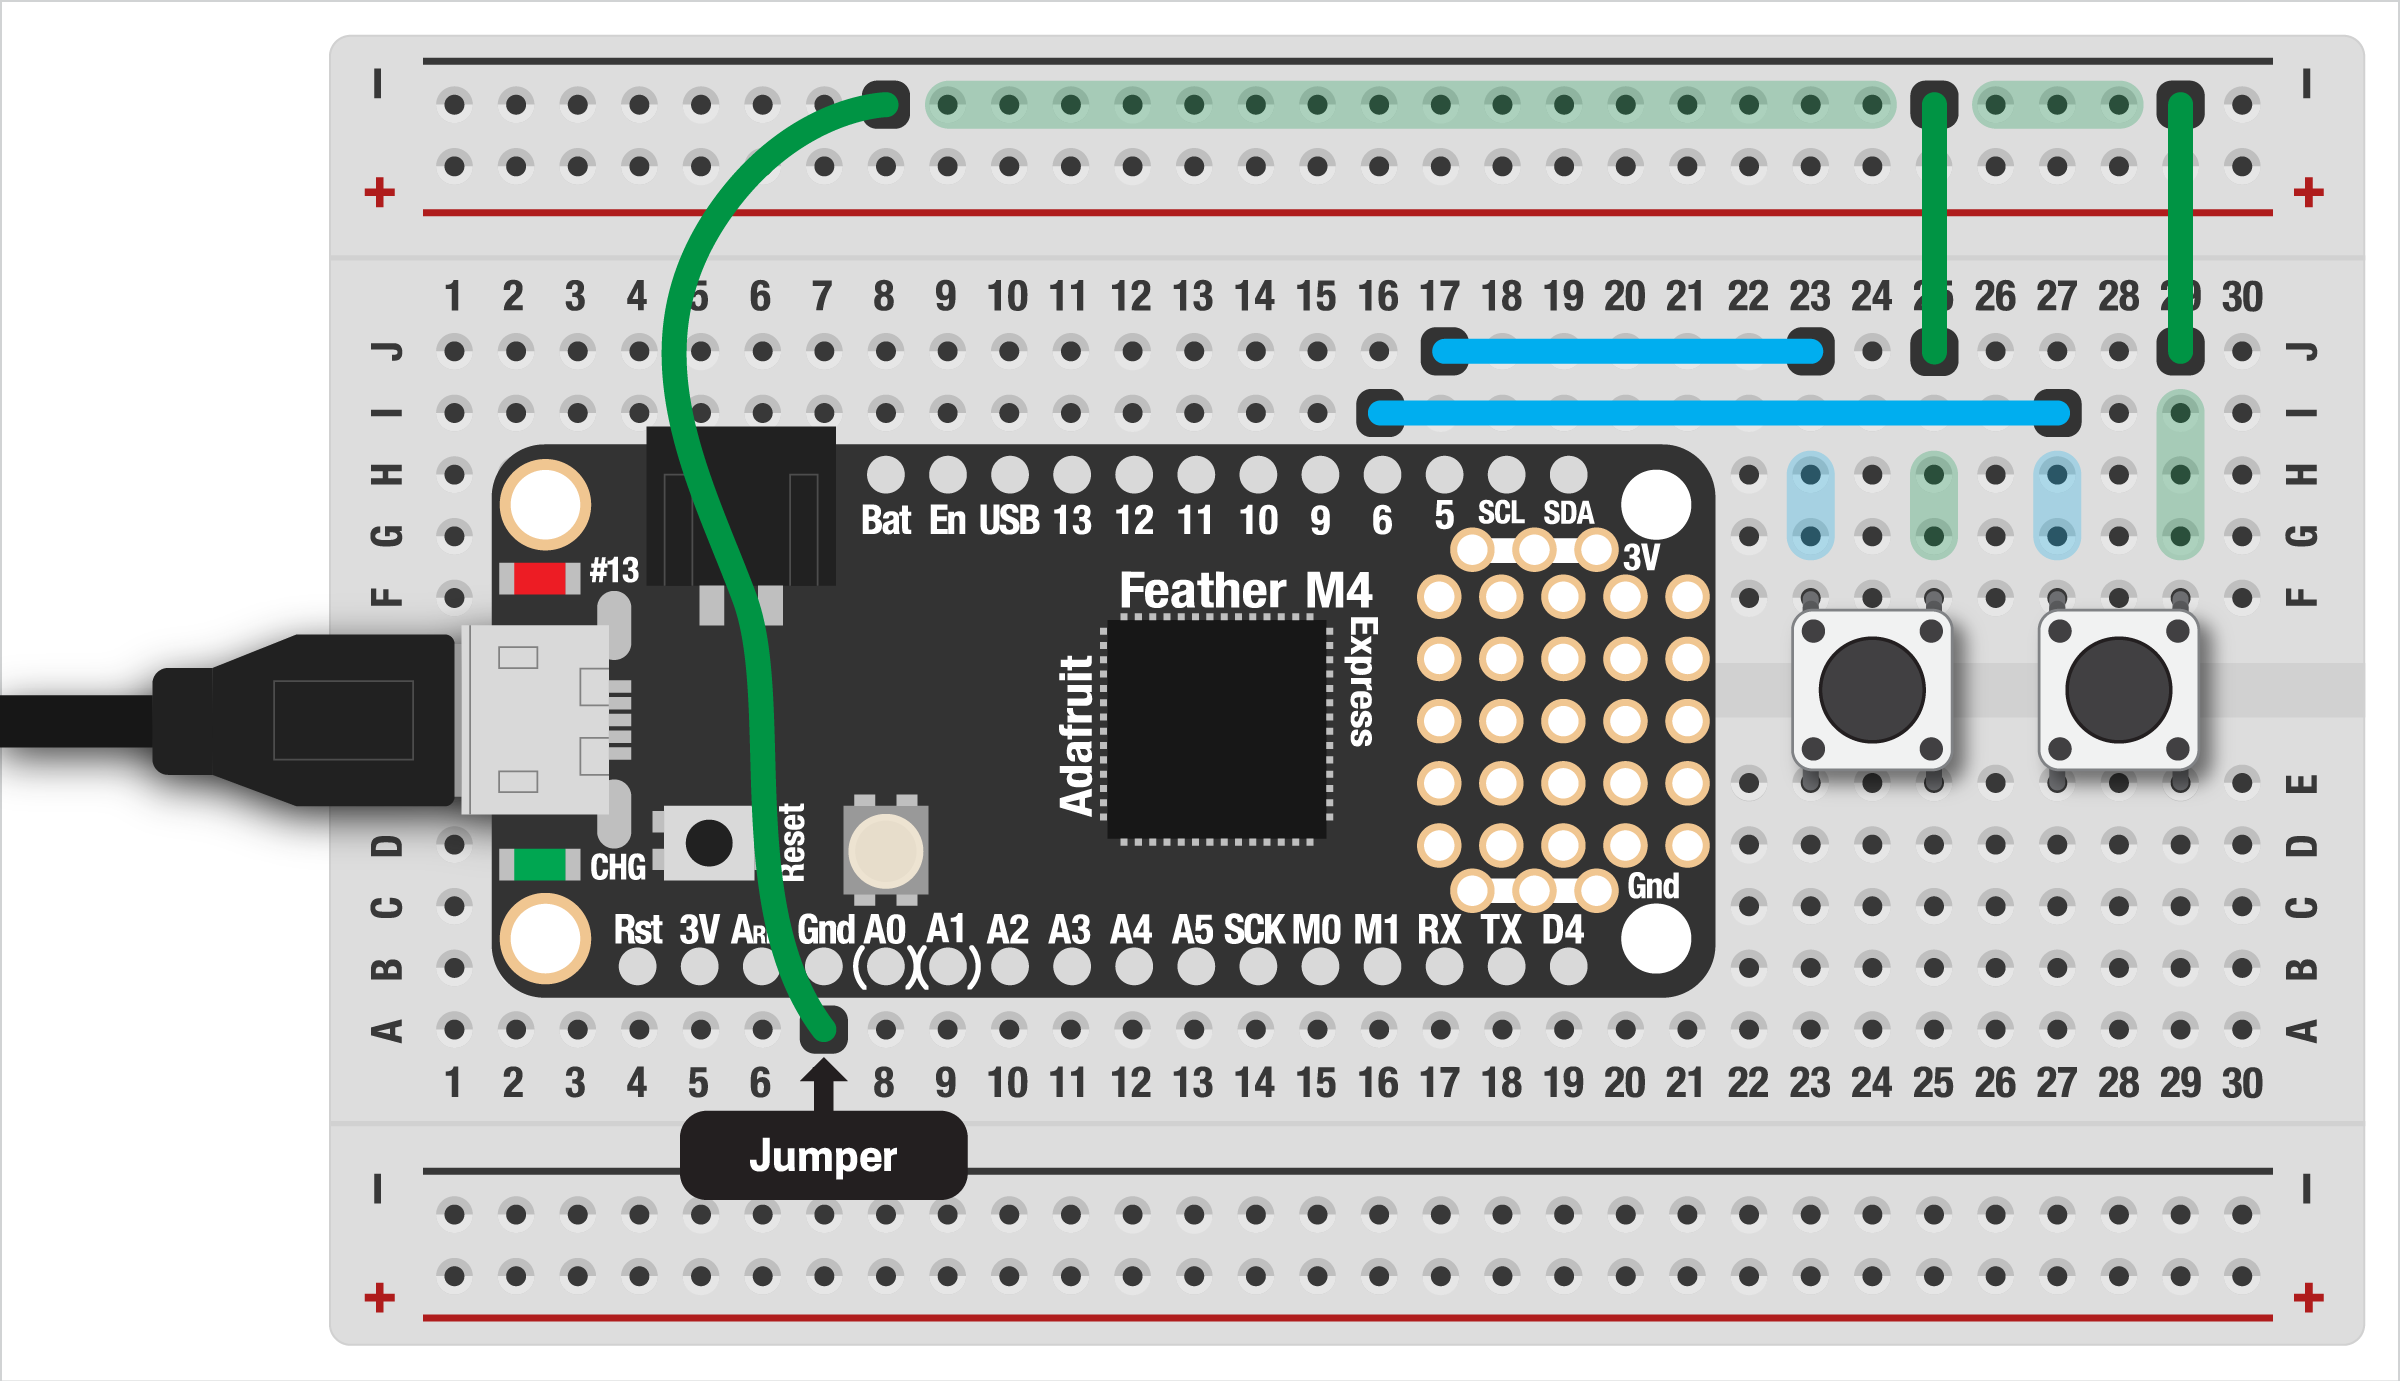
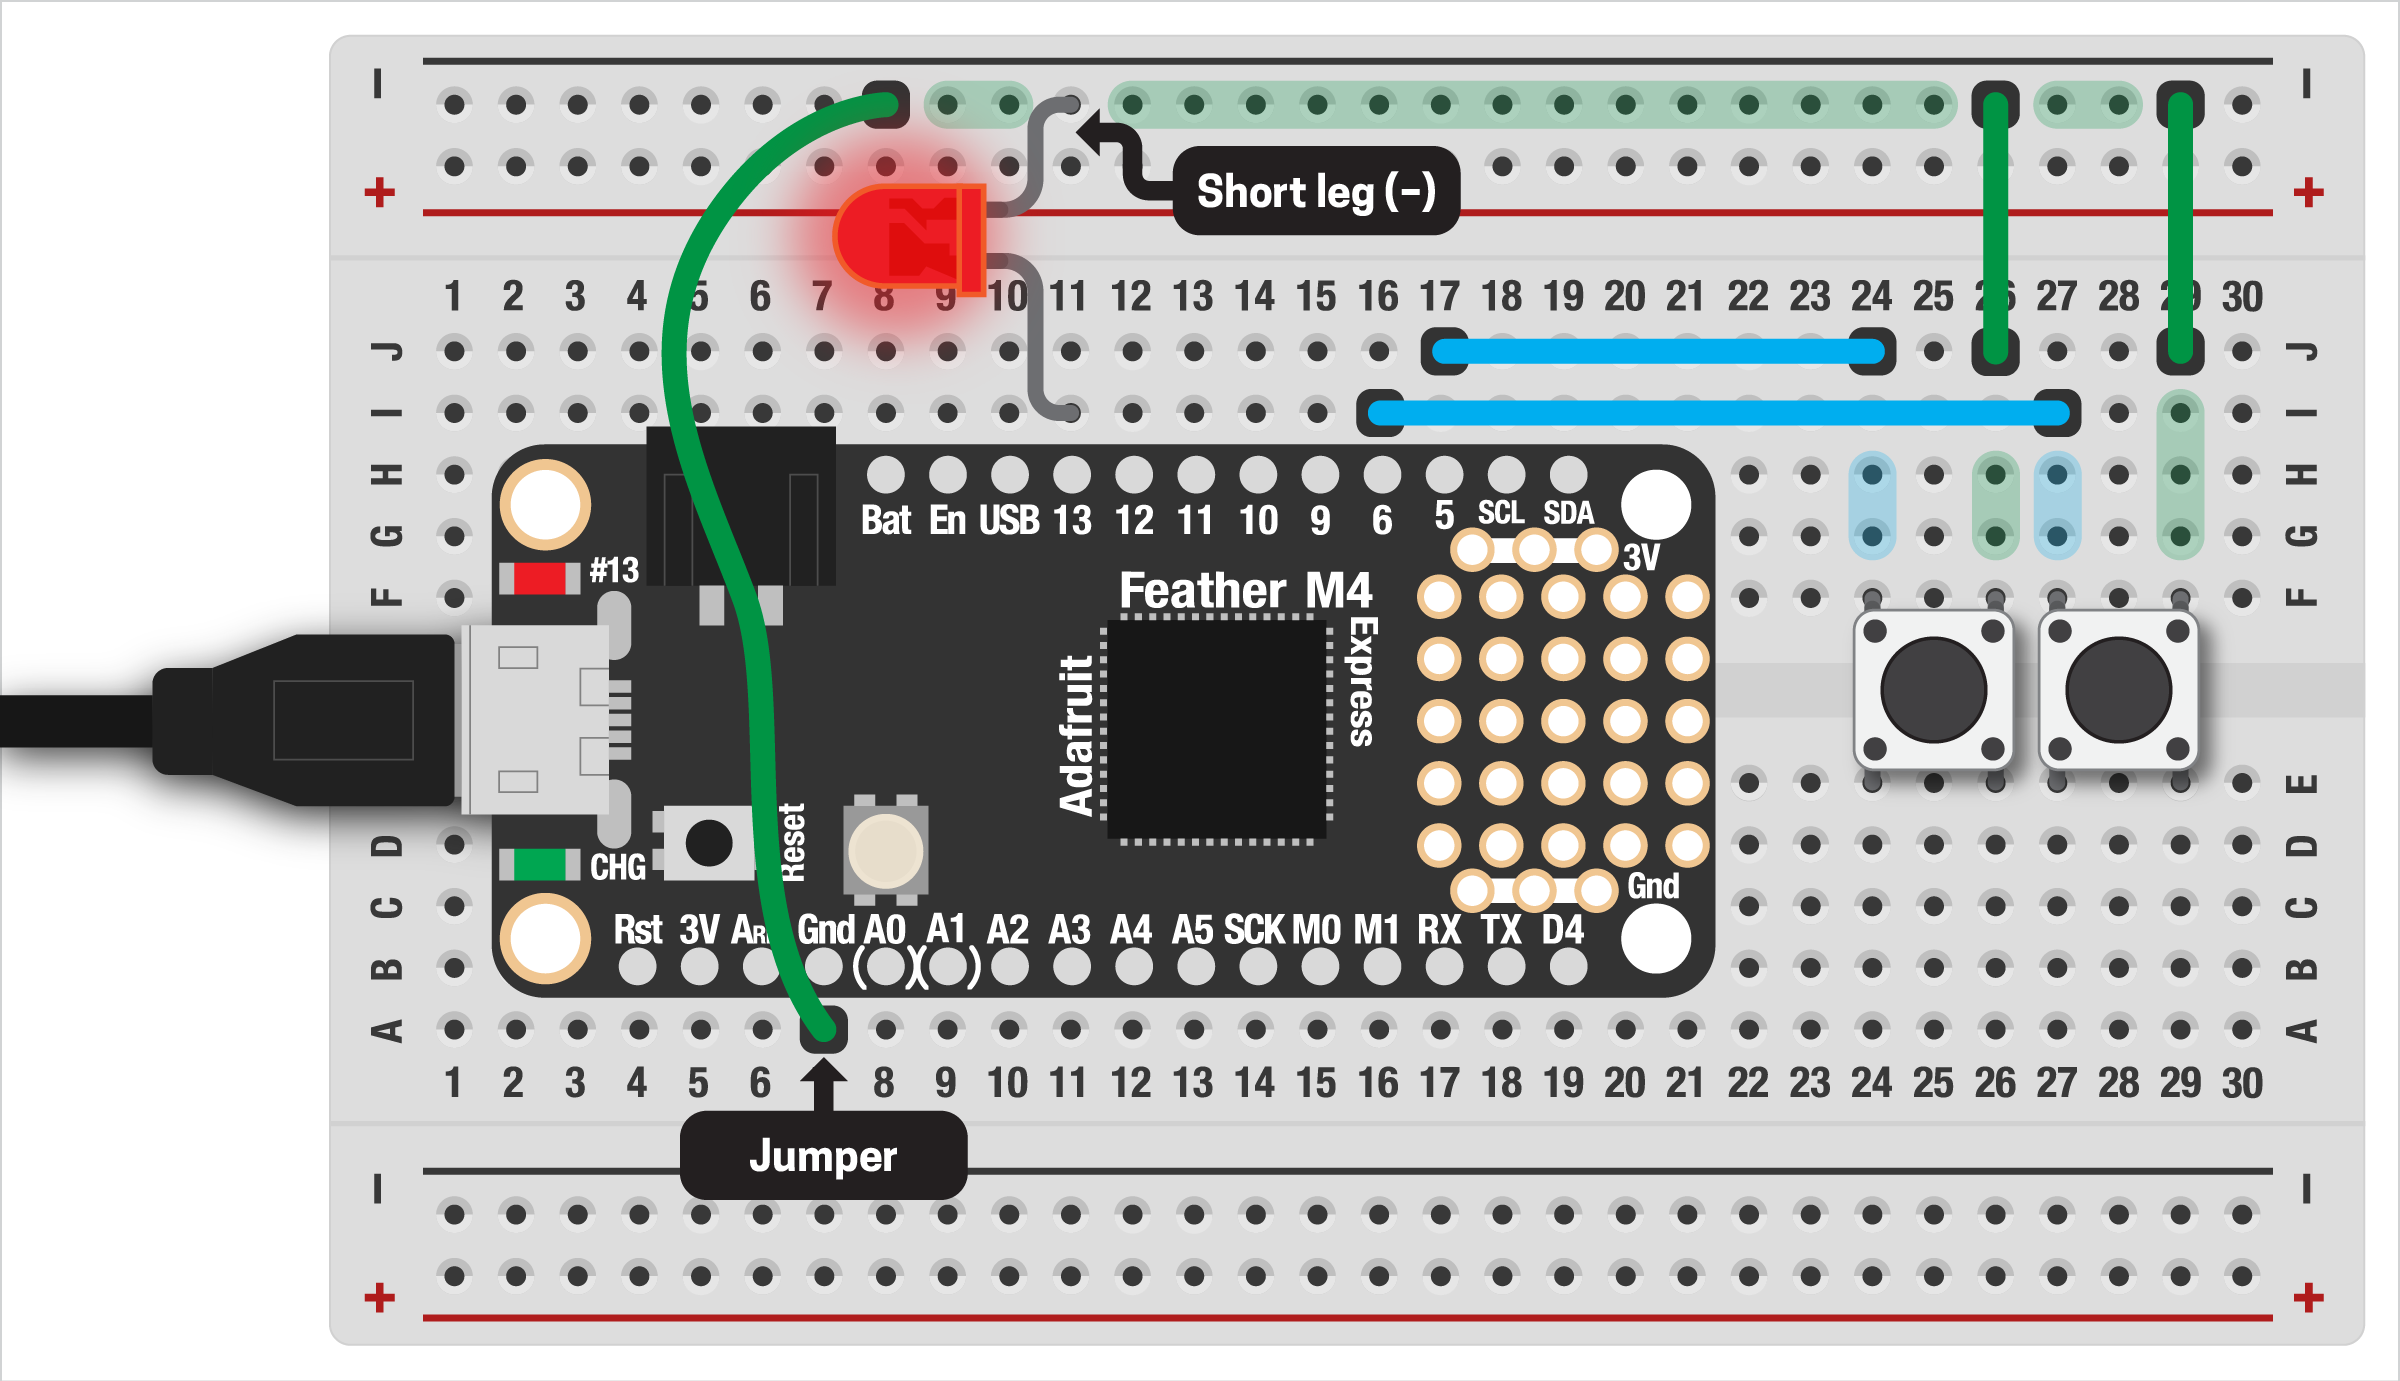
Multiple buttons example

diff --git a/Week03_Buttons/Demos/03-MultipleButtons.md b/Week03_Buttons/Demos/03-MultipleButtons.md
@@ -1,36 +1,156 @@
-# 
+# MULTIPLE BUTTONS  
 
-
+Just like LEDs, one button is cool but not as much fun as lots of buttons! There are lots of ways we could do this, but in this example we'll leverage custom functions as a way to clean up and simplify repeated tasks in our code, then have an LED blink different patterns depending on which button is pressed.
 
 ***
 
 ### CONTENTS  
 
-* [](#)  
+* [Wiring the buttons and LED](#wiring-the-buttons-and-led)  
+* [Button variables](#button-variables)  
+* [Reading the buttons](#reading-the-buttons)  
+* [Full code example](#full-code-example)  
+* [Challenges](#challenges)  
 
 ### STUFF YOU'LL NEED  
 
+* Two (or more) pushbuttons  
+* One LED (or the internal one)  
+* Jumper wires  
 * Feather board  
 * USB cable  
 
 ***
 
-### 
+### WIRING THE BUTTONS AND LED  
+To set up our board, we'll add a second button. This gets wired up just like the single button, with one end connected to ground and the other to a digital pin, in this case `D6`:
 
+![](Images/MultipleButtons.png)
 
-> 🙋♀ 
+Add an LED from `D13` as well, just like in the image above. We can set up the LED in code too:
+
+```python
+led = digitalio.DigitalInOut(board.D13)
+led.direction = digitalio.Direction.OUTPUT
+```
+
+***
+
+### BUTTON VARIABLES  
+With everything ready, can now create variables for our buttons. We could do this just like our previous example, creating a second variable for the second pin and button:
+
+```python
+pin1 = digitalio.DigitalInOut(board.D5)
+pin1.pull = digitalio.Pull.UP 
+button1 = Debouncer(pin1)
+
+pin2 = digitalio.DigitalInOut(board.D6)
+pin2.pull = digitalio.Pull.UP 
+button2 = Debouncer(pin2)
+```
+
+This works, but as you can see, if we wanted more than two buttons it's going to get really messy! Looking closely at our code, we can see that all three lines needed to create a button are exactly the same, just with different input pins. This kind of generalization is a perfect opportunity for a function:
+
+```python
+def button_setup(pin):
+  # create a button input
+  # (with pullup resistor and debouncing)
+  button = digitalio.DigitalInOut(pin)
+  button.pull = digitalio.Pull.UP 
+  return Debouncer(button)
+```
+
+This takes in the pin we want to use and sets it up for us, then sends back the button ready for debouncing. Let's add a button on pins `D5` and `D6` using our new function:  
+
+```python
+b1 = button_setup(board.D5)
+b2 = button_setup(board.D6)
+```
+
+***
+
+### READING THE BUTTONS  
+Now we're ready to read our buttons! This works just like one button, but we'll need to call `update()` and check the state of each one:
+
+```python
+b1.update()
+b2.update()
+```
+
+This is great, but not very exciting. Let's have the LED blink once if the first button is pressed, twice if the second one is pressed. Again, this is a great place to use a function: we can pass in the number of blinks.
+
+```python
+def blink(n, duration=0.2):
+  # blinks an LED a specified number of times
+  for i in range(0, n):
+    led.value = True
+    time.sleep(duration)
+    led.value = False
+    time.sleep(duration)
+```
+
+With this function done, we can trigger it when the button's state is `falling` (pressed):  
+
+```python
+if b1.fell:
+  blink(1)
+if b2.fell:
+  blink(2)
+```
+
+Let's put that all together and see how it works!
 
 ***
 
 ### FULL CODE EXAMPLE  
-Copy/paste this code, save to your board, and watch the colors change!  
+Copy/paste this code, save to your board:
 
 ```python
+import board 
+import digitalio
+import time
+from adafruit_debouncer import Debouncer
 
+# LED setup
+led = digitalio.DigitalInOut(board.D13)
+led.direction = digitalio.Direction.OUTPUT
+
+def button_setup(pin):
+  # create a button input
+  # (with pullup resistor and debouncing)
+  button = digitalio.DigitalInOut(pin)
+  button.pull = digitalio.Pull.UP 
+  return Debouncer(button)
+
+# create the two buttons using our function
+b1 = button_setup(board.D5)
+b2 = button_setup(board.D6)
+
+def blink(n, duration=0.2):
+  # blinks an LED a specified number of times
+  for i in range(0, n):
+    led.value = True
+    time.sleep(duration)
+    led.value = False
+    time.sleep(duration)
+
+while True:
+  # get the current button state
+  b1.update()
+  b2.update()
+  
+  # if falling (pressed), blink the LED
+  if b1.fell:
+    blink(1)
+  if b2.fell:
+    blink(2)
 ```
 
 ***
 
 ### CHALLENGES  
 
-1. 
+1. Can you add a third button and have it blink the LED three times?  
+2. Could you add a second LED as well? Can you have one button blink one of the LEDs, the other button blink the other one?  
+3. This [super-helpful list of examples](https://github.com/todbot/circuitpython-tricks#set-up-and-debounce-a-list-of-pins) from Tod Kurt includes a method for debouncing multiple pins. Can you try implementing that here?  
+

diff --git a/Week03_Buttons/Demos/02-Debouncing.md b/Week03_Buttons/Demos/02-Debouncing.md
@@ -4,7 +4,7 @@ Computers, phones, and all of our electronics make it really easy to forget that
 If you were to zoom inside your button, you'd see two metals bits that touch each other when the button is pressed. Being made of "real" materials, there's a moment right before the button is pressed where its state is unpredictable: you might see the button's state bouncing back and forth between pressed and not! (See [this great post from Adafruit](https://learn.adafruit.com/make-it-switch/debouncing) that shows this nicely.)
 
 ![](Images/ButtonBouncingOnOscilloscope.jpg)  
-*An oscilloscope, showing a button's state bouncing when pressed. Via [Adafruit](https://learn.adafruit.com/make-it-switch/debouncing)*
+*An oscilloscope, showing a button's state bouncing when pressed (via [Adafruit](https://learn.adafruit.com/make-it-switch/debouncing))*
 
 To avoid this, we can improve our previous state change code by introducing something called "debouncing." This basically ignores any inputs after the state of the button has changed for a short period of time. Users won't notice a difference but this can be really helpful in stabilizing the behavior of your project.
 
